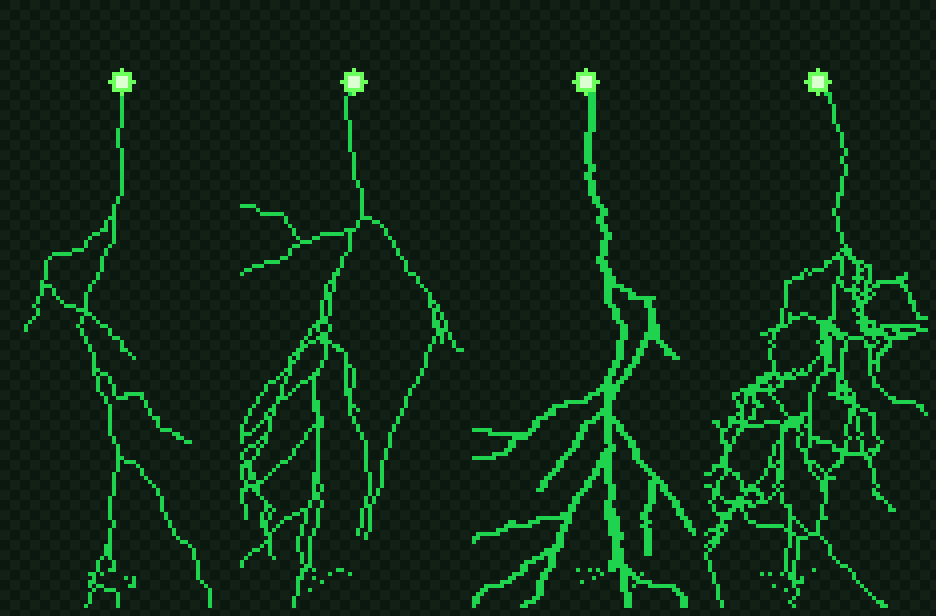
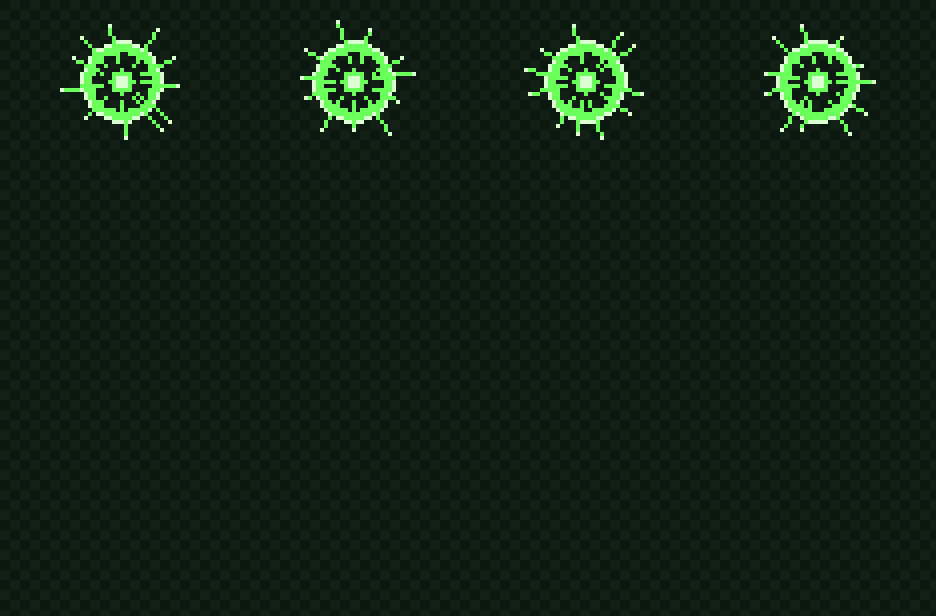
Green lightning: multi-stroke re-strike (line moves) + tendrils fade off — true strike feel

diff --git a/lightning-green.html b/lightning-green.html
@@ -40,11 +40,14 @@ const OPTS=[
   {id:'D', name:'Wild',   disp:0.30, detail:7, branches:11, blen:0.36, thick:1},
 ];
 const SEQ=[
-  ['ball',0.45,2],['ball',0.8,2],['ball',1.0,2],           // charge up
-  ['burst',0.18,1],['burst',0.5,1],['burst',0.85,1],        // BOOM
-  ['rev',0.4,1],['rev',0.75,1],['rev',1.0,1],               // spine erupts
-  ['flash',0,1],['glow',1.0,3],['glow',1.0,3],['rev',1.0,2],// alive: tendrils crackle
-  ['fade',0.6,1],['fade',0.3,1],['fade',0.12,1],['empty',0,8],
+  ['ball',0.5,2],['ball',1.0,2],                 // charge
+  ['burst',0.3,1],['burst',0.85,1],               // BOOM
+  ['strike',0,1],['glow',1.0,1],['empty',0,1],    // STROKE 1 slams down, glows, flickers off
+  ['strike',0,1],['glow',1.0,1],['empty',0,1],    // STROKE 2 — a new line comes down (moved)
+  ['strike',0,1],['glow',1.0,2],                  // STROKE 3 + hold
+  ['tfade',0.55,1],['tfade',0.28,1],              // tendrils fade off (channel stays)
+  ['fade',0.5,1],['fade',0.2,1],                  // channel fades out
+  ['empty',0,9],
 ];
 
 /* ---- geometry ---------------------------------------------------------- */
@@ -96,14 +99,13 @@ function edges(pts, rad){ const s=new Set(pts.map(p=>p[0]+','+p[1])), out=new Se
 /* ---- one strike (canvas-free core so it also renders headless) --------- */
 function makeStrike(opt){
   const buf=new Uint8ClampedArray(GW*GH*4);
-  let spinePoly, spine, spineSorted, spray, tend=[], idx=0, stepStart=0, lastGen=-1e9;
-  function newStrike(){
-    const ex=GW/2+(Math.random()*22-11), ey=GH-10, disp0=GW*opt.disp;
+  let baseEx, spinePoly, spine, spray, tend=[], idx=0, stepStart=0, lastGen=-1e9;
+  function newCycle(){ baseEx=GW/2+(Math.random()*22-11); }   // where this strike lands
+  function newStroke(){                                        // a fresh main line comes down (return stroke, moved)
+    const ex=baseEx+(Math.random()*8-4), ey=GH-10, disp0=GW*opt.disp;
     spinePoly=displace([OX,OY],[ex,ey],disp0,opt.detail);
     let s=raster(spinePoly); if(opt.thick>=2) s=s.concat(s.map(p=>[p[0]+1,p[1]]));
     spine=s.filter(inb);
-    const seen=new Set(); spineSorted=[];
-    spine.slice().sort((a,b)=>a[1]-b[1]||a[0]-b[0]).forEach(p=>{const k=p[0]+','+p[1]; if(!seen.has(k)){seen.add(k);spineSorted.push(p);}});
     spray=[]; const ns=8+(Math.random()*6|0);
     for(let i=0;i<ns;i++){ const a=Math.random()*Math.PI, r=1+Math.random()*6; const p=[Math.round(ex+Math.cos(a)*r*1.3),Math.round(ey+Math.abs(Math.sin(a))*r*0.7)]; if(inb(p)) spray.push(p); }
     tend=tendrils(spinePoly,opt);
@@ -127,20 +129,20 @@ function makeStrike(opt){
         line(Math.round(OX+Math.cos(a)*r0),Math.round(OY+Math.sin(a)*r0),Math.round(OX+Math.cos(a)*r1),Math.round(OY+Math.sin(a)*r1),seg);
         seg.forEach((p,i)=> put([p], i===seg.length-1?WHITE:BRIGHT)); }
       core(Math.max(1,(5*(1-arg))|0));
-    } else if(k==='rev'){
-      if(arg>=1){ put(full,BOLT); } else { put(spineSorted.slice(0,(spineSorted.length*arg)|0),BOLT); }
-      core(3);
+    } else if(k==='strike'){                     // bright slam of the whole (newly-struck) bolt
+      put(edges(spine.concat(tend),1),BOLT); put(full,WHITE); core(4);
     } else if(k==='glow'){ put(edges(spine.concat(tend),1),BOLT); put(full,BRIGHT); core(3); }
-    else if(k==='flash'){ put(edges(spine.concat(tend),2),BOLT); put(edges(spine.concat(tend),1),BRIGHT); put(full,WHITE); core(4); }
+    else if(k==='tfade'){ put(spine,BOLT); put(tend.filter(()=>Math.random()<arg),BOLT); core(2); }  // tendrils fade, channel holds
     else if(k==='fade'){ put(full.filter(()=>Math.random()<arg),BOLT); }
   }
-  newStrike(); compose(SEQ[0]);
+  newCycle(); newStroke(); compose(SEQ[0]);
   return { buf, advance(now){
     if(!stepStart) stepStart=now;
-    const step=SEQ[idx], live = step[0]==='glow' || (step[0]==='rev'&&step[1]>=1);
-    if(live && now-lastGen>=REFRESH){ tend=tendrils(spinePoly,opt); lastGen=now; }
+    const step=SEQ[idx];
+    if(step[0]==='glow' && now-lastGen>=REFRESH){ tend=tendrils(spinePoly,opt); lastGen=now; }  // tendrils crackle
     compose(step);
-    if(now-stepStart>=step[2]*UNIT){ idx++; if(idx>=SEQ.length){ idx=0; newStrike(); } stepStart=now; }
+    if(now-stepStart>=step[2]*UNIT){ idx++; if(idx>=SEQ.length){ idx=0; newCycle(); }
+      stepStart=now; if(SEQ[idx][0]==='strike') newStroke(); }   // each strike = a new line comes down
   } };
 }
 
